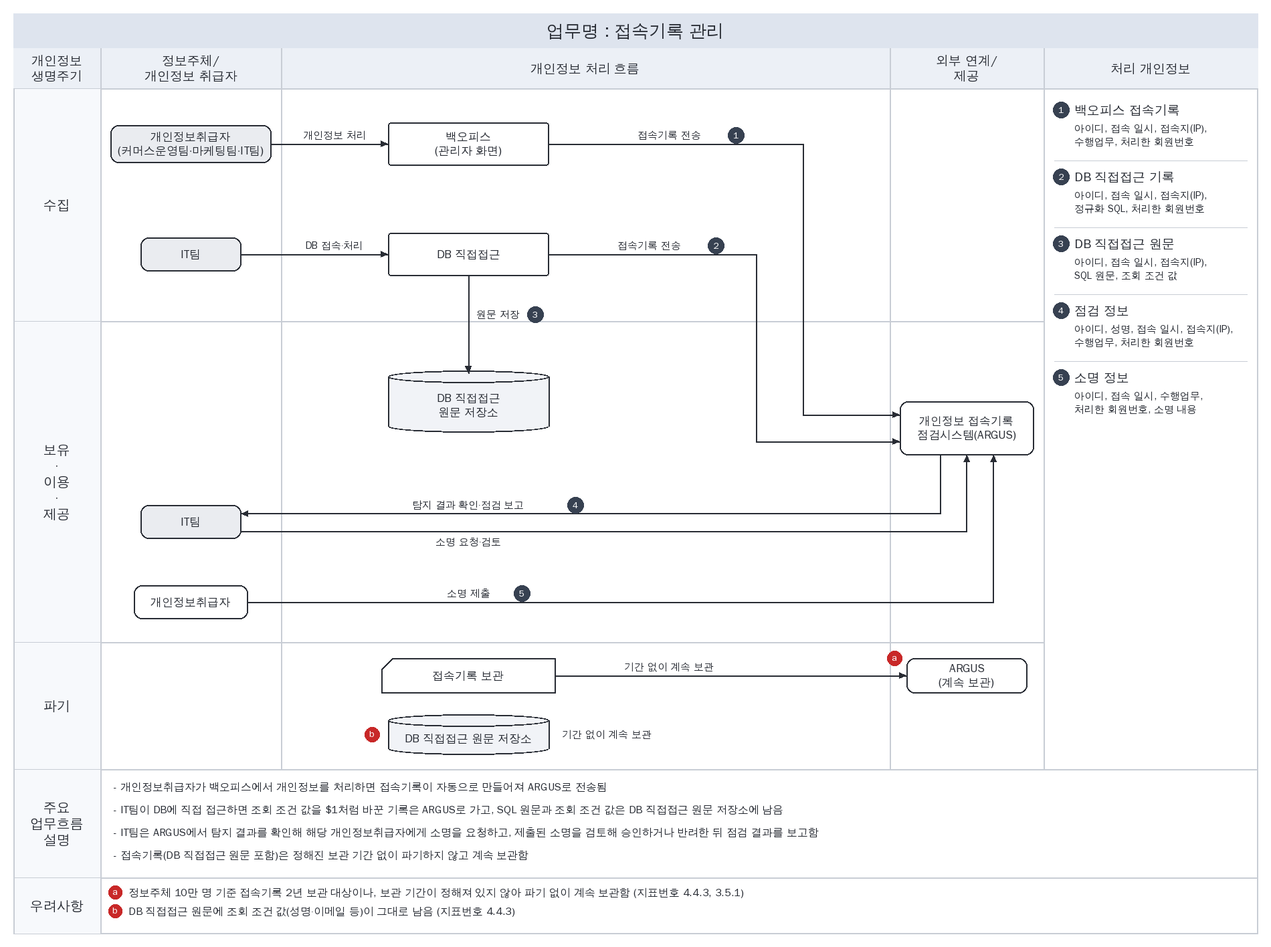
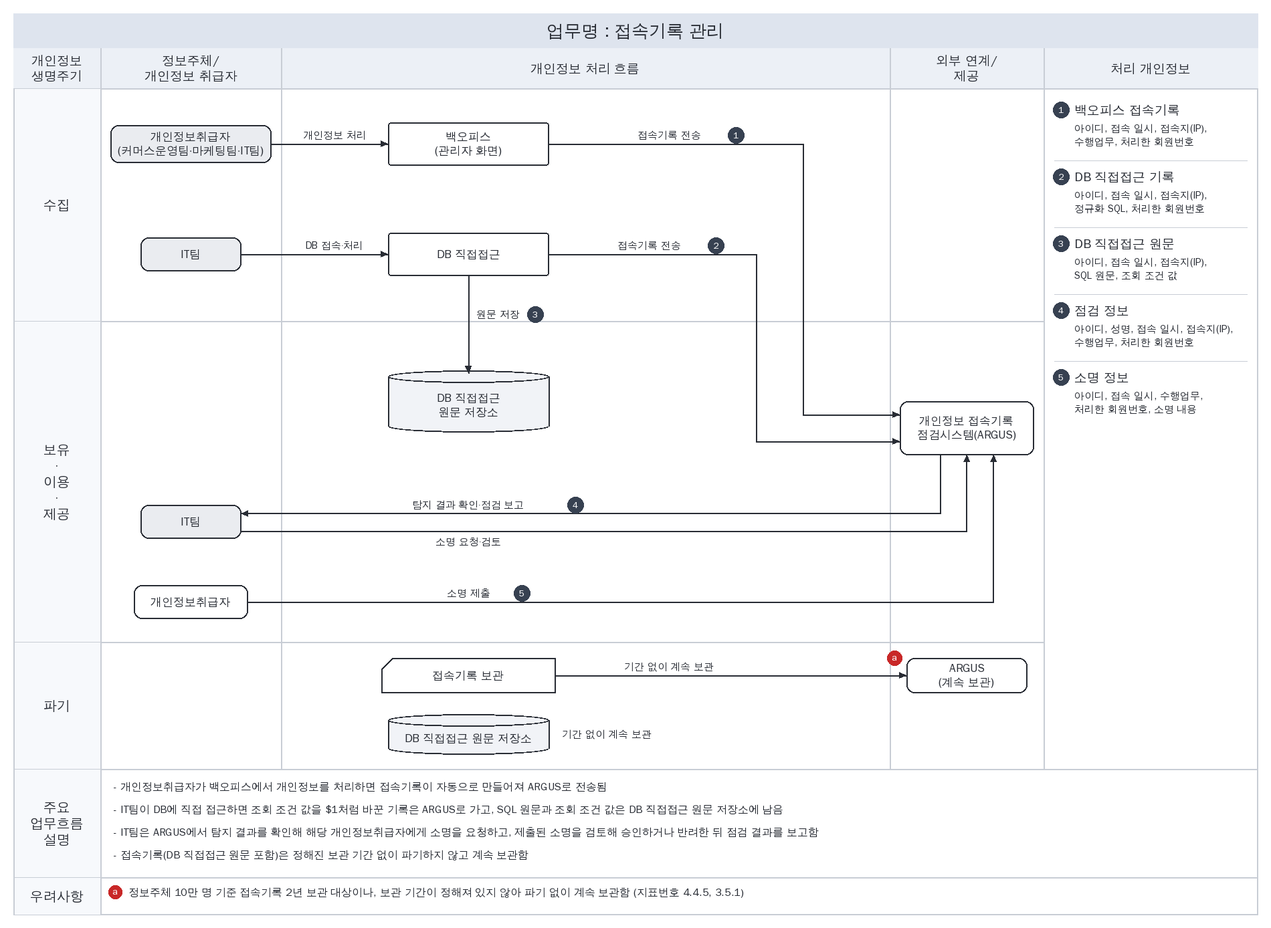
docs(pia): 4영역 개인정보 보호조치 현황파악 추가와 흐름도 우려사항 정정
- 4영역(대상시스템의 기술적 보호조치) 7개 분야 현황파악 추가
- 증적 이미지 추가
- 회원관리·접속기록 관리 흐름도에서 지표로 확인되지 않은 우려사항 삭제
- README 진행 현황과 평가항목 표 갱신

Claude-Session: https://claude.ai/code/session_014Tg7LS15gSB8NVMa5p89Kz

diff --git a/docs/pia/침해요인_분석/현황파악_4.1_접근권한_관리.md b/docs/pia/침해요인_분석/현황파악_4.1_접근권한_관리.md
@@ -1,0 +1,125 @@
+# 현황파악 — 4.1 접근권한 관리
+
+> 안내서 현황파악(4.2, 61~64쪽)의 평가항목별 결과 양식으로 작성했습니다. 평가자료(처리방침·설계 문서)와 흐름분석 산출물, 시스템 담당자 인터뷰·실사로 판정했습니다
+> 확인: 이행 / 부분이행 / 미이행. 해당 없음 지표(4.1.2·4.1.12·4.1.13)는 [평가항목](평가항목.md)에 사유가 있습니다
+> 접근 통제(IP 제한 등)는 배포 설계안 기준으로 판정했습니다
+
+## 4.1.1
+
+| 구분 | 내용 |
+|---|---|
+| 질의문 코드 | 4.1.1 |
+| 질의문 | 개인정보취급자별로 책임 추적성이 확보될 수 있도록 개별 계정을 부여하도록 계획하고 있습니까? |
+| 확인 | 이행 |
+| 평가 근거 및 의견 | - 백오피스·ARGUS는 취급자마다 개별 계정을 발급함<br>- DB 직접접근도 본인 계정으로 발급받은 접속 토큰으로만 접속해 접근자를 구분함<br><br>[증적] 백오피스 계정·권한<br>![백오피스 계정·권한](증적/백오피스_계정권한.png) |
+| 항목 설명 | ○ 응용프로그램·DB 등에 접근하는 취급자마다 고유 계정을 발급하고 공유하지 않음 |
+| 평가 예시 | ○ 이행: 모든 개인정보처리시스템에 취급자별 개별 계정을 발급한 경우<br>○ 부분이행: 일부 시스템에서 계정을 공유하는 경우 |
+| 관련 법령 및 문서 | 개인정보 보호법 제29조, 개인정보의 안전성 확보조치 기준 제5조제4항 |
+
+## 4.1.3
+
+| 구분 | 내용 |
+|---|---|
+| 질의문 코드 | 4.1.3 |
+| 질의문 | 개인정보취급자 및 정보주체의 인증수단을 안전하게 적용하고 관리하도록 계획하고 있습니까? |
+| 확인 | 부분이행 |
+| 평가 근거 및 의견 | - 취급자·정보주체 모두 비밀번호 10자 이상·2종류 이상 조합을 적용하고, 취급자 임시 비밀번호는 첫 로그인 때 변경하게 함<br>- DB 직접접근(관리자 권한 접근)에 접속 토큰 외 다중요소 인증이 없음<br><br>[증적] 관리자 비밀번호 변경 화면<br>![관리자 비밀번호 변경 화면](증적/관리자_비밀번호변경.png) |
+| 항목 설명 | ○ 취급자와 정보주체를 인증하는 수단을 추측·탈취가 어렵도록 적용하고 관리함 |
+| 평가 예시 | ○ 이행: 취급자·정보주체 모두에 안전한 인증수단과 관리 기준을 적용한 경우<br>○ 부분이행: 일부 대상에 인증수단 기준이 없거나 미흡한 경우 |
+| 관련 법령 및 문서 | 개인정보 보호법 제29조, 개인정보의 안전성 확보조치 기준 제5조제5항 |
+
+## 4.1.4
+
+| 구분 | 내용 |
+|---|---|
+| 질의문 코드 | 4.1.4 |
+| 질의문 | 정보주체가 비밀번호 변경 등 중요 정보 접근 시 비밀번호 재확인 등 추가적인 인증이 적용되도록 계획하고 있습니까? |
+| 확인 | 이행 |
+| 평가 근거 및 의견 | - 마이페이지에서 비밀번호를 바꿀 때 현재 비밀번호를 다시 확인함<br><br>[증적] 마이페이지 비밀번호 변경 화면<br>![마이페이지 비밀번호 변경 화면](증적/마이페이지_비밀번호변경.png) |
+| 항목 설명 | ○ 정보주체가 비밀번호 변경 등 중요 정보에 접근할 때 비밀번호 재확인 등으로 본인임을 다시 확인함 |
+| 평가 예시 | ○ 이행: 중요 정보 접근 시 추가 인증을 적용한 경우<br>○ 부분이행: 일부 중요 정보 접근에만 추가 인증을 적용한 경우 |
+| 관련 법령 및 문서 | 개인정보 보호법 제29조 |
+
+## 4.1.5
+
+| 구분 | 내용 |
+|---|---|
+| 질의문 코드 | 4.1.5 |
+| 질의문 | 대량의 개인정보 또는 민감한 개인정보를 처리하는 개인정보취급자 및 관리자는 강화된 인증방식이 적용되도록 계획하고 있습니까? |
+| 확인 | 부분이행 |
+| 평가 근거 및 의견 | - 백오피스와 DB 직접접근은 허용한 IP에서만 접속하도록 함<br>- 대량 처리 취급자에게 OTP 등 소유·생체 기반 인증을 적용하지 않음 |
+| 항목 설명 | ○ 대량·민감 개인정보를 처리하는 취급자와 관리자는 비밀번호 외에 소유·생체·위치 기반 등 강화된 인증을 적용함 |
+| 평가 예시 | ○ 이행: 대량·민감 개인정보 처리자에게 강화된 인증을 적용한 경우<br>○ 부분이행: 일부 처리자나 접근 경로에만 강화된 인증을 적용한 경우 |
+| 관련 법령 및 문서 | 개인정보 보호법 제29조 |
+
+## 4.1.6
+
+| 구분 | 내용 |
+|---|---|
+| 질의문 코드 | 4.1.6 |
+| 질의문 | 정당한 권한을 가진 자만이 개인정보처리시스템에 접근할 수 있도록 일정 횟수 이상 인증에 실패한 경우 개인정보처리시스템에 대한 접근을 제한하는 등 필요한 조치를 취하도록 계획하고 있습니까? |
+| 확인 | 이행 |
+| 평가 근거 및 의견 | - 백오피스·ARGUS는 5회 연속 실패 시 계정을 잠그고 관리자만 해제함<br>- 쇼핑몰 회원은 5회 연속 실패 시 15분간 잠금<br><br>[증적] 쇼핑몰 로그인 실패 잠금 화면<br>![쇼핑몰 로그인 실패 잠금 화면](증적/회원_로그인실패_잠금.png) |
+| 항목 설명 | ○ 일정 횟수 이상 인증에 실패하면 계정 잠금 등으로 접근을 제한함 |
+| 평가 예시 | ○ 이행: 모든 접근 대상에 인증 실패 시 접근 제한을 적용한 경우<br>○ 부분이행: 일부 시스템이나 대상에 접근 제한이 없는 경우 |
+| 관련 법령 및 문서 | 개인정보 보호법 제29조, 개인정보의 안전성 확보조치 기준 제5조제6항 |
+
+## 4.1.7
+
+| 구분 | 내용 |
+|---|---|
+| 질의문 코드 | 4.1.7 |
+| 질의문 | 개인정보처리시스템에 대한 불법적인 접근 및 침해사고 방지를 위하여 개인정보취급자가 일정시간 이상 업무 처리를 하지 않는 경우에는 자동으로 시스템 접속이 차단되도록 계획하고 있습니까? |
+| 확인 | 이행 |
+| 평가 근거 및 의견 | - 백오피스·ARGUS는 30분 동안 사용하지 않으면 인증이 만료되어 다시 로그인해야 함<br>- DB 직접접근도 연결을 사용하지 않으면 끊기고 다시 인증해야 함 |
+| 항목 설명 | ○ 취급자가 일정 시간 업무를 하지 않으면 접속을 자동 차단하고, 다시 접속할 때 처음과 같은 방법으로 인증함 |
+| 평가 예시 | ○ 이행: 모든 접근 경로에 미사용 시 자동 차단을 적용한 경우<br>○ 부분이행: 일부 접근 경로에 자동 차단이 없는 경우 |
+| 관련 법령 및 문서 | 개인정보 보호법 제29조, 개인정보의 안전성 확보조치 기준 제6조제4항 |
+
+## 4.1.8
+
+| 구분 | 내용 |
+|---|---|
+| 질의문 코드 | 4.1.8 |
+| 질의문 | 개인정보처리시스템에 대한 비정상적인 접근을 방지하기 위하여 장기 미접속시 계정 잠금, 동시 접속 제한, 관리자 로그인 알림 등 보호 대책이 적용되도록 계획하고 있습니까? |
+| 확인 | 부분이행 |
+| 평가 근거 및 의견 | - 개인정보 접속기록 점검 시스템으로 비정상적인 접근을 탐지함<br>- 업무 시간 외 접속 제한, 장기 미접속 계정 잠금, 동시 접속 제한, 관리자 로그인 알림이 없음<br><br>[증적] 개인정보 접속기록 점검 시스템 탐지 룰<br>![개인정보 접속기록 점검 시스템 탐지 룰](증적/ARGUS_탐지룰.png) |
+| 항목 설명 | ○ 업무 시간 외 접속 제한, 장기 미접속 잠금, 동시 접속 제한, 관리자 로그인 알림 등으로 비정상 접근을 막거나 탐지함 |
+| 평가 예시 | ○ 이행: 비정상 접근을 막거나 탐지하는 보호대책을 적용한 경우<br>○ 부분이행: 보호대책을 일부만 적용한 경우 |
+| 관련 법령 및 문서 | 개인정보 보호법 제29조 |
+
+## 4.1.9
+
+| 구분 | 내용 |
+|---|---|
+| 질의문 코드 | 4.1.9 |
+| 질의문 | 개인정보취급자 또는 개인정보취급자의 업무가 변경될 경우 지체없이 개인정보처리시스템의 접근권한을 변경 또는 말소하도록 계획하고 있습니까? |
+| 확인 | 부분이행 |
+| 평가 근거 및 의견 | - 퇴직 처리하면 로그인·DB 접속 토큰 발급이 바로 막히고 ARGUS 명부에도 반영됨<br>- 시스템에 권한 변경·말소 기능은 있으나, 전보·퇴직 등 인사 변동을 권한 변경·말소로 이어지게 하는 절차가 없음 |
+| 항목 설명 | ○ 전보·퇴직 등으로 취급자나 업무가 바뀌면 누락 없이 지체 없이 권한을 변경·말소하는 절차를 둠 |
+| 평가 예시 | ○ 이행: 인사 변동 시 권한을 지체 없이 변경·말소하는 기능과 절차가 있는 경우<br>○ 부분이행: 변경·말소 기능은 있으나 누락을 막는 절차가 없는 경우 |
+| 관련 법령 및 문서 | 개인정보 보호법 제29조, 개인정보의 안전성 확보조치 기준 제5조제2항 |
+
+## 4.1.10
+
+| 구분 | 내용 |
+|---|---|
+| 질의문 코드 | 4.1.10 |
+| 질의문 | 개인정보처리시스템의 접근권한을 부여, 변경 또는 말소한 내역을 기록하고 그 기록을 최소 3년간 보관하도록 계획하고 있습니까? |
+| 확인 | 부분이행 |
+| 평가 근거 및 의견 | - 권한 부여·변경·말소마다 대상·일시·역할·사유·처리자를 기록하고 3년 이상 보관함<br>- 권한 요청·승인 절차가 없어 승인자 정보가 기록되지 않음<br><br>[증적] 백오피스 권한 이력<br>![백오피스 권한 이력](증적/백오피스_권한이력_처리자.png) |
+| 항목 설명 | ○ 권한 부여·변경·말소 내역을 대상자·부여자(승인자)·일시·권한·사유가 드러나게 기록하고 3년 이상 보관함 |
+| 평가 예시 | ○ 이행: 필요한 항목을 모두 기록하고 3년 이상 보관한 경우<br>○ 부분이행: 기록 항목 일부가 빠졌거나 보관 기간이 부족한 경우 |
+| 관련 법령 및 문서 | 개인정보 보호법 제29조, 개인정보의 안전성 확보조치 기준 제5조제3항 |
+
+## 4.1.11
+
+| 구분 | 내용 |
+|---|---|
+| 질의문 코드 | 4.1.11 |
+| 질의문 | 개인정보처리시스템에 대한 접근 권한을 조회, 입력, 변경, 삭제, 출력, 다운로드 등 그 역할에 따라 최소한으로 부여할 수 있도록 계획하고 있습니까? |
+| 확인 | 부분이행 |
+| 평가 근거 및 의견 | - 역할별로 조회·다운로드·전체 보기·권한 관리 범위를 나누고 서버에서 검사함<br>- 마케팅팀 계정의 회원 상세에 업무와 관계없는 환불계좌가 보임<br>- DB 직접접근을 IT팀 외 커머스운영팀(운영 역할)도 할 수 있고, 하나의 DB 계정으로 모든 테이블에 접근함<br><br>[증적] 커머스운영팀 계정 DB 접근 관리 화면<br>![커머스운영팀 계정 DB 접근 관리 화면](증적/운영팀_DB접속토큰발급.png) |
+| 항목 설명 | ○ 역할에 따라 조회·변경·다운로드 등 권한을 최소한으로 나눠 부여하고, DB 직접접근은 최소 인원으로 한정함 |
+| 평가 예시 | ○ 이행: 역할별 권한을 업무에 필요한 최소 범위로 부여한 경우<br>○ 부분이행: 일부 역할에 업무에 필요 없는 권한이 부여된 경우 |
+| 관련 법령 및 문서 | 개인정보 보호법 제29조, 개인정보의 안전성 확보조치 기준 제5조제1항 |

diff --git a/docs/pia/침해요인_분석/현황파악_4.3_개인정보의_암호화.md b/docs/pia/침해요인_분석/현황파악_4.3_개인정보의_암호화.md
@@ -1,0 +1,53 @@
+# 현황파악 — 4.3 개인정보의 암호화
+
+> 안내서 현황파악(4.2, 61~64쪽)의 평가항목별 결과 양식으로 작성했습니다. 평가자료(처리방침·설계 문서)와 흐름분석 산출물, 시스템 담당자 인터뷰·실사로 판정했습니다
+> 확인: 이행 / 부분이행 / 미이행. 해당 없음 지표(4.3.3)는 [평가항목](평가항목.md)에 사유가 있습니다
+> 전송 구간 암호화는 배포 설계안 기준으로 판정했습니다
+
+## 4.3.1
+
+| 구분 | 내용 |
+|---|---|
+| 질의문 코드 | 4.3.1 |
+| 질의문 | 인증정보, 고유식별정보 등 중요 개인정보를 저장하는 경우, 안전한 방식으로 암호화 저장하도록 계획하고 있습니까? |
+| 확인 | 이행 |
+| 평가 근거 및 의견 | - 비밀번호는 솔트를 적용한 일방향 암호(argon2id, 비밀번호 저장용 알고리즘)로, 환불계좌번호와 이체 환불 계좌 사본은 AES-256-GCM으로 암호화해 저장함<br>- 카드번호는 PG 결제창에서만 입력받아 저장하지 않고, 고유식별정보는 수집하지 않음<br><br>[증적] 회원 비밀번호 저장값<br>![회원 비밀번호 저장값](증적/DB_비밀번호_해시.png) |
+| 항목 설명 | ○ 인증정보는 안전한 알고리즘으로 암호화(비밀번호는 솔트를 적용한 일방향 암호화)하고, 이용자의 고유식별정보·카드번호·계좌번호·생체인식정보는 저장 위치와 관계없이 암호화해 저장함 |
+| 평가 예시 | ○ 이행: 암호화 대상 개인정보를 모두 안전한 알고리즘으로 암호화해 저장하는 경우<br>○ 부분이행: 일부 암호화 대상을 평문으로 저장하거나 안전하지 않은 알고리즘을 사용하는 경우 |
+| 관련 법령 및 문서 | 개인정보 보호법 제29조, 개인정보의 안전성 확보조치 기준 제7조제1항·제2항 |
+
+## 4.3.2
+
+| 구분 | 내용 |
+|---|---|
+| 질의문 코드 | 4.3.2 |
+| 질의문 | 이용자의 개인정보 또는 이용자가 아닌 정보주체의 고유식별정보를 개인정보취급자 컴퓨터, 모바일 기기 및 보조저장매체 등에 저장할 때에는 안전한 알고리즘으로 암호화 저장하도록 계획하고 있습니까? |
+| 확인 | 미이행 |
+| 평가 근거 및 의견 | - 백오피스에서 내려받은 회원 CSV와 마케팅 분석용 추출 파일을 암호화하지 않고 취급자 PC에 저장함<br><br>[증적] 회원 CSV 파일<br>![회원 CSV 파일](증적/회원CSV.png) |
+| 항목 설명 | ○ 이용자의 개인정보를 취급자 PC·모바일 기기·보조저장매체에 저장할 때 문서 암호, DRM, 디스크 암호화 등으로 안전하게 암호화함 |
+| 평가 예시 | ○ 이행: 취급자 PC 등에 저장하는 개인정보 파일을 모두 암호화하는 경우<br>○ 부분이행: 일부 파일이나 일부 기기에만 암호화를 적용한 경우 |
+| 관련 법령 및 문서 | 개인정보 보호법 제29조, 개인정보의 안전성 확보조치 기준 제7조제5항 |
+
+## 4.3.4
+
+| 구분 | 내용 |
+|---|---|
+| 질의문 코드 | 4.3.4 |
+| 질의문 | 비밀번호, 생체인식정보 등 인증정보를 정보통신망을 통해 송·수신하는 경우에는 암호화하도록 계획하고 있습니까? |
+| 확인 | 이행 |
+| 평가 근거 및 의견 | - 쇼핑몰·백오피스·접속기록 점검 시스템은 HTTPS로, DB 직접접근은 암호화(TLS) 연결만 허용해 비밀번호·접속 토큰을 암호화해 전송함<br><br>[증적] DB 직접접근 SSL 설정<br>![DB 직접접근 SSL 설정](증적/DB직접접근_SSL설정.png) |
+| 항목 설명 | ○ 비밀번호 등 인증정보는 내부망을 포함한 모든 정보통신망 구간에서 SSL/TLS 등으로 암호화해 송·수신함 |
+| 평가 예시 | ○ 이행: 인증정보를 송·수신하는 모든 구간을 암호화한 경우<br>○ 부분이행: 일부 구간에서 인증정보를 암호화하지 않고 송·수신하는 경우 |
+| 관련 법령 및 문서 | 개인정보 보호법 제29조, 개인정보의 안전성 확보조치 기준 제7조제1항 |
+
+## 4.3.5
+
+| 구분 | 내용 |
+|---|---|
+| 질의문 코드 | 4.3.5 |
+| 질의문 | 개인정보를 정보통신망을 통하여 인터넷망 구간으로 송·수신하는 경우 암호화하도록 계획하고 있습니까? |
+| 확인 | 부분이행 |
+| 평가 근거 및 의견 | - 쇼핑몰·백오피스의 웹 구간은 HTTPS로 암호화함<br>- PG사·택배사와 구매자·받는 사람 정보를 주고받는 연계 구간의 암호화가 설계에 반영되지 않음 |
+| 항목 설명 | ○ 인터넷망 구간으로 개인정보를 송·수신할 때 보안서버(SSL 인증서) 등으로 암호화함 |
+| 평가 예시 | ○ 이행: 인터넷망 구간의 개인정보 송·수신을 모두 암호화한 경우<br>○ 부분이행: 일부 인터넷망 구간을 암호화하지 않은 경우 |
+| 관련 법령 및 문서 | 개인정보 보호법 제29조, 개인정보의 안전성 확보조치 기준 제7조제4항 |

diff --git a/docs/pia/침해요인_분석/현황파악_4.2_접근통제.md b/docs/pia/침해요인_분석/현황파악_4.2_접근통제.md
@@ -1,0 +1,53 @@
+# 현황파악 — 4.2 접근통제
+
+> 안내서 현황파악(4.2, 61~64쪽)의 평가항목별 결과 양식으로 작성했습니다. 평가자료(처리방침·설계 문서)와 흐름분석 산출물, 시스템 담당자 인터뷰·실사로 판정했습니다
+> 확인: 이행 / 부분이행 / 미이행. 해당 없음 지표(4.2.4·4.2.5·4.2.7)는 [평가항목](평가항목.md)에 사유가 있습니다
+> 접근 통제(IP 제한 등)는 배포 설계안 기준으로 판정했습니다. 웹 취약점 점검은 4.2.6에서 판정했습니다
+
+## 4.2.1
+
+| 구분 | 내용 |
+|---|---|
+| 질의문 코드 | 4.2.1 |
+| 질의문 | 개인정보처리시스템에 대한 불법적인 접근 제한 및 개인정보 유출 시도 탐지·대응을 위한 안전조치를 하도록 계획하고 있습니까? |
+| 확인 | 부분이행 |
+| 평가 근거 및 의견 | - 방화벽과 허용 IP 목록으로 관리자 경로·DB 직접접근을 제한하고, 개인정보 접속기록 점검 시스템으로 취급자의 이상 접근을 탐지함<br>- 인터넷에 공개된 쇼핑몰로 들어오는 접속을 분석해 유출 시도를 탐지하는 기능이 없음<br><br>[증적] 개인정보 접속기록 점검 시스템 탐지 룰<br>![개인정보 접속기록 점검 시스템 탐지 룰](증적/ARGUS_탐지룰.png) |
+| 항목 설명 | ○ IP 주소 등으로 인가받지 않은 접근을 제한하는 침입차단 기능과, 접속 IP 등을 분석해 유출 시도를 탐지·대응하는 침입탐지 기능을 모두 갖춤 |
+| 평가 예시 | ○ 이행: 침입차단과 침입탐지 기능을 모두 갖춘 경우<br>○ 부분이행: 두 기능 중 하나만 갖춘 경우 |
+| 관련 법령 및 문서 | 개인정보 보호법 제29조, 개인정보의 안전성 확보조치 기준 제6조제1항 |
+
+## 4.2.2
+
+| 구분 | 내용 |
+|---|---|
+| 질의문 코드 | 4.2.2 |
+| 질의문 | 개인정보처리시스템에 대한 정당한 접근 권한을 가진 자(다만, 정보주체는 제외)가 정보통신망을 통해 외부에서 개인정보처리시스템에 접속하려는 경우에는 인증서, 보안토큰, 일회용 비밀번호 등 안전한 인증수단을 적용하도록 계획하고 있습니까? |
+| 확인 | 미이행 |
+| 평가 근거 및 의견 | - 업무상 외부 접속이 필요하나, OTP·인증서 등 안전한 인증수단이나 VPN을 적용한 외부 접속 방법이 없음 |
+| 항목 설명 | ○ 외부에서의 접속은 원칙적으로 차단하고, 필요한 경우 OTP·인증서 등 안전한 인증수단이나 VPN 등 안전한 접속수단을 적용함 |
+| 평가 예시 | ○ 이행: 외부 접속을 차단하거나, 외부 접속 시 안전한 인증수단을 적용한 경우<br>○ 부분이행: 일부 외부 접속 경로에 안전한 인증수단이 없는 경우 |
+| 관련 법령 및 문서 | 개인정보 보호법 제29조, 개인정보의 안전성 확보조치 기준 제6조제2항 |
+
+## 4.2.3
+
+| 구분 | 내용 |
+|---|---|
+| 질의문 코드 | 4.2.3 |
+| 질의문 | 인터넷 홈페이지, P2P, 공유설정, 공개된 무선망 등을 통해 개인정보가 노출되거나 유출되지 않도록 개인정보처리시스템, 개인정보취급자 컴퓨터, 모바일 기기 등에 조치를 계획하고 있습니까? |
+| 확인 | 이행 |
+| 평가 근거 및 의견 | - 관리자 페이지는 허용 IP에서만 열리고, DB는 인터넷에 직접 노출하지 않음<br>- 쇼핑몰에 개인정보가 공개되는 게시판이 없음 |
+| 항목 설명 | ○ 관리자 페이지 노출 차단, 개인정보처리시스템의 인터넷 접속 차단 등으로 개인정보가 권한 없는 자에게 노출되지 않도록 함 |
+| 평가 예시 | ○ 이행: 인터넷 홈페이지 등을 통한 노출·유출 방지 조치를 한 경우<br>○ 부분이행: 일부 경로에 노출·유출 방지 조치가 없는 경우 |
+| 관련 법령 및 문서 | 개인정보 보호법 제29조, 개인정보의 안전성 확보조치 기준 제6조제3항 |
+
+## 4.2.6
+
+| 구분 | 내용 |
+|---|---|
+| 질의문 코드 | 4.2.6 |
+| 질의문 | 인터넷 홈페이지 취약점으로 인한 개인정보의 유출, 변조, 훼손 등을 방지하기 위하여 웹서버 및 응용프로그램에 대한 취약점 점검 및 대응조치를 수행하도록 계획하고 있습니까? |
+| 확인 | 미이행 |
+| 평가 근거 및 의견 | - 웹 취약점 진단 계획과 점검 결과를 조치·관리하는 절차가 없음 |
+| 항목 설명 | ○ 개발 시 시큐어 코딩·취약점 점검을 적용하고, 운영 중 정기 취약점 진단과 조치 이행을 관리함 |
+| 평가 예시 | ○ 이행: 개발 보안과 정기 취약점 진단·조치를 모두 수행하는 경우<br>○ 부분이행: 개발 보안이나 정기 진단 중 일부만 수행하는 경우 |
+| 관련 법령 및 문서 | 개인정보 보호법 제29조, 개인정보의 안전성 확보조치 기준 제4조 |

diff --git a/docs/pia/침해요인_분석/현황파악_4.4_접속기록의_보관_및_점검.md b/docs/pia/침해요인_분석/현황파악_4.4_접속기록의_보관_및_점검.md
@@ -1,0 +1,40 @@
+# 현황파악 — 4.4 접속기록의 보관 및 점검
+
+> 안내서 현황파악(4.2, 61~64쪽)의 평가항목별 결과 양식으로 작성했습니다. 평가자료(처리방침·설계 문서)와 흐름분석 산출물, 시스템 담당자 인터뷰·실사로 판정했습니다
+> 확인: 이행 / 부분이행 / 미이행. 해당 없음 지표(4.4.3·4.4.4)는 [평가항목](평가항목.md)에 사유가 있습니다
+
+## 4.4.1
+
+| 구분 | 내용 |
+|---|---|
+| 질의문 코드 | 4.4.1 |
+| 질의문 | 개인정보처리시스템의 접속기록을 식별자, 접속일시, 접속지 정보, 처리한 정보주체 정보, 수행업무 등 필요한 사항이 모두 기록되도록 계획하고 있습니까? |
+| 확인 | 부분이행 |
+| 평가 근거 및 의견 | - 백오피스 화면 경유와 DB 직접접근 모두 식별자·접속일시·접속지·처리한 정보주체·수행업무를 기록함<br>- SSH·텔넷 등으로 서버에 직접 접속한 뒤 DB에 접속하는 경로는 접속기록이 남지 않음<br><br>[증적] 개인정보 접속기록 점검 시스템 접속기록 조회<br>![개인정보 접속기록 점검 시스템 접속기록 조회](증적/ARGUS_접속기록_조회.png) |
+| 항목 설명 | ○ 응용프로그램·DB 직접접속·서버 경유 등 접속 경로별로 5개 항목(식별자·접속일시·접속지·처리한 정보주체·수행업무)을 빠짐없이 기록하고, 접속기록에 불필요한 개인정보가 남지 않게 함 |
+| 평가 예시 | ○ 이행: 모든 접속 경로에서 5개 항목을 빠짐없이 기록하는 경우<br>○ 부분이행: 일부 접속 경로나 일부 항목이 기록되지 않는 경우 |
+| 관련 법령 및 문서 | 개인정보 보호법 제29조, 개인정보의 안전성 확보조치 기준 제2조제3호·제8조제1항 |
+
+## 4.4.2
+
+| 구분 | 내용 |
+|---|---|
+| 질의문 코드 | 4.4.2 |
+| 질의문 | 개인정보의 오·남용, 분실·도난·유출·위조·변조 또는 훼손 등에 대응하기 위하여 개인정보취급자의 개인정보처리시스템에 대한 접속기록 및 개인정보 다운로드 상황을 확인하고 점검하는 주기·방법·사후조치 절차 등을 내부 관리계획으로 정하고 이행하도록 계획하고 있습니까? |
+| 확인 | 부분이행 |
+| 평가 근거 및 의견 | - 개인정보 접속기록 점검 시스템이 대량 다운로드·업무 시간 외 접속 등을 자동 탐지하고, 소명 요청과 점검 보고서로 사후 확인함<br>- 점검 주기·방법·담당자·사후조치 절차를 내부 관리계획으로 정하지 않음<br><br>[증적] 개인정보 접속기록 점검 보고서<br>![개인정보 접속기록 점검 보고서](증적/ARGUS_점검보고서.png) |
+| 항목 설명 | ○ 점검 방법·기준·주기·담당자·비정상 행위 대응·보고 절차를 내부 관리계획으로 정하고, 대량 다운로드 등 위험 행위를 기술적으로 점검함 |
+| 평가 예시 | ○ 이행: 점검 계획을 내부 관리계획으로 정하고 점검 기능을 갖춰 이행하는 경우<br>○ 부분이행: 점검 기능은 있으나 점검 계획이 없거나, 계획은 있으나 점검 기능이 부족한 경우 |
+| 관련 법령 및 문서 | 개인정보 보호법 제29조, 개인정보의 안전성 확보조치 기준 제8조제2항 |
+
+## 4.4.5
+
+| 구분 | 내용 |
+|---|---|
+| 질의문 코드 | 4.4.5 |
+| 질의문 | 개인정보처리시스템의 접속기록을 최소 1년 또는 2년 이상 보관하고 위·변조 및 도난, 분실되지 않도록 해당 접속기록을 안전하게 보관하기 위한 조치를 계획하고 있습니까? |
+| 확인 | 부분이행 |
+| 평가 근거 및 의견 | - 접속기록은 수정·삭제를 막고 해시체인으로 위·변조 여부를 확인하며, 매일 암호화해 백업함<br>- 정보주체 5만 명 이상으로 2년 이상 보관 대상이나 보관 기간을 정하지 않았고, 백업을 같은 서버에만 보관함<br><br>[증적] 개인정보 접속기록 점검 보고서(무결성 점검)<br>![개인정보 접속기록 점검 보고서(무결성 점검)](증적/ARGUS_점검보고서.png) |
+| 항목 설명 | ○ 접속기록을 1년(5만 명 이상·고유식별정보·민감정보 처리 시 2년) 이상 보관하고, 물리적으로 분리된 저장장치 백업·덮어쓰기 방지·위변조 확인 등으로 안전하게 보관함 |
+| 평가 예시 | ○ 이행: 법정 기간 이상 보관하고 별도 저장장치 백업과 위변조 방지 조치를 한 경우<br>○ 부분이행: 보관 기간이나 안전한 보관 조치 중 일부가 부족한 경우 |
+| 관련 법령 및 문서 | 개인정보 보호법 제29조, 개인정보의 안전성 확보조치 기준 제8조제1항·제3항 |

diff --git a/docs/pia/침해요인_분석/현황파악_4.8_기타_기술적_보호조치.md b/docs/pia/침해요인_분석/현황파악_4.8_기타_기술적_보호조치.md
@@ -1,0 +1,40 @@
+# 현황파악 — 4.8 기타 기술적 보호조치
+
+> 안내서 현황파악(4.2, 61~64쪽)의 평가항목별 결과 양식으로 작성했습니다. 평가자료(처리방침·설계 문서)와 흐름분석 산출물, 시스템 담당자 인터뷰·실사로 판정했습니다
+> 확인: 이행 / 부분이행 / 미이행. 해당 없음 지표(4.8.3)는 [평가항목](평가항목.md)에 사유가 있습니다
+
+## 4.8.1
+
+| 구분 | 내용 |
+|---|---|
+| 질의문 코드 | 4.8.1 |
+| 질의문 | 개발 환경을 통한 개인정보의 유출을 방지하기 위하여 테스트 데이터 생성·이용·파기 및 기술적 보호조치 등에 관한 대책을 적용하도록 계획하고 있습니까? |
+| 확인 | 이행 |
+| 평가 근거 및 의견 | - 테스트 데이터는 모두 가상 데이터로 만들고, 개발 환경과 운영 서버를 분리하며, 소스 변경 이력을 PR로 관리함 |
+| 항목 설명 | ○ 테스트 데이터는 실제 개인정보가 아닌 가공 정보를 쓰고, 개발·운영 환경을 분리해 통제된 절차로 이관하며, 소스프로그램의 비인가 접근·변경을 막음 |
+| 평가 예시 | ○ 이행: 가공 테스트 데이터, 환경 분리, 소스프로그램 보호를 모두 적용한 경우<br>○ 부분이행: 일부 대책만 적용한 경우 |
+| 관련 법령 및 문서 | 개인정보 보호법 제29조 |
+
+## 4.8.2
+
+| 구분 | 내용 |
+|---|---|
+| 질의문 코드 | 4.8.2 |
+| 질의문 | 개인정보취급자 및 정보주체의 개인정보 처리화면을 통한 개인정보 유·노출 등을 방지하기 위하여 개인정보 마스킹, 웹브라우저 우측 마우스 버튼 제한, 임시 파일 및 캐시 통제, 카드번호 등 중요 정보에 대한 복사·화면캡쳐 방지 및 키보드해킹 방지 등 보호대책을 적용하도록 계획하고 있습니까? |
+| 확인 | 부분이행 |
+| 평가 근거 및 의견 | - 배송 목록의 받는 사람·연락처·주소와 카드번호·환불계좌번호는 마스킹해 표시함<br>- 회원 목록·상세와 주문 상세는 이름·연락처·주소 등을 마스킹 없이 표시하고, 우측 마우스 버튼 제한·캐시 통제 등 노출 방지 조치가 없음<br><br>[증적] 백오피스 회원 목록<br>![백오피스 회원 목록](증적/회원목록.png) |
+| 항목 설명 | ○ 처리화면의 개인정보는 일관된 기준으로 마스킹하고, 우측 마우스 버튼·히스토리·캐시를 통제하며, 카드번호 등 중요 정보에는 복사·화면캡처·키보드해킹 방지를 검토함 |
+| 평가 예시 | ○ 이행: 처리화면 전반에 마스킹 기준과 노출 방지 조치를 적용한 경우<br>○ 부분이행: 일부 화면이나 일부 조치만 적용한 경우 |
+| 관련 법령 및 문서 | 개인정보 보호법 제29조 |
+
+## 4.8.4
+
+| 구분 | 내용 |
+|---|---|
+| 질의문 코드 | 4.8.4 |
+| 질의문 | 개인정보처리시스템에서 개인정보의 출력(인쇄, 화면표시, 파일생성 등)시 용도를 특정하여 용도에 따라 출력항목을 최소화하여 출력하도록 계획하고 있습니까? |
+| 확인 | 부분이행 |
+| 평가 근거 및 의견 | - 역할별로 메뉴 접근 권한을 나눠, 맡은 업무가 아닌 화면의 개인정보는 출력되지 않음<br>- 같은 화면과 회원 CSV는 부서·용도와 관계없이 같은 항목을 출력하고, 업무상 꼭 필요하지 않은 항목도 마스킹 없이 출력함<br><br>[증적] 회원 CSV 파일<br>![회원 CSV 파일](증적/회원CSV.png) |
+| 항목 설명 | ○ 개인정보를 인쇄·화면표시·파일생성으로 출력할 때 용도를 특정하고, 접근 권한과 용도에 따라 출력 항목을 최소화함 |
+| 평가 예시 | ○ 이행: 출력 용도를 정하고 용도별로 출력 항목을 최소화한 경우<br>○ 부분이행: 일부 출력에만 항목 최소화를 적용한 경우 |
+| 관련 법령 및 문서 | 개인정보 보호법 제29조, 개인정보의 안전성 확보조치 기준 제12조제1항 |

diff --git a/docs/pia/README.md b/docs/pia/README.md
@@ -21,7 +21,7 @@
 | 1. 영향평가 수행계획 수립 | 완료 | 영향평가 수행계획서 |
 | 2. 평가자료 수집 | 완료 | 법률·규정 목록, 평가자료 목록, 사업개요서 |
 | 3. 개인정보 흐름분석 | 완료 | 개인정보 영향도 등급표, 개인정보 처리 업무표, 개인정보 처리업무 흐름도, 개인정보 흐름표, 개인정보 흐름도, 정보시스템 구조도, 정보보호 시스템 목록 |
-| 4. 개인정보 침해요인 분석 | 진행 중 | 평가항목, 현황파악(1~3영역) |
+| 4. 개인정보 침해요인 분석 | 진행 중 | 평가항목, 현황파악(1~4영역) |
 | 5. 개선계획 수립 | 예정 | |
 | 6. 영향평가서 작성 | 예정 | |
 
@@ -105,7 +105,7 @@
 
 ### 4.2 개인정보 보호조치 현황파악
 
-해당 지표마다 안내서 양식(확인·평가 근거 및 의견·항목 설명·평가 예시·관련 법령)으로 이행 여부를 판정하고, 실사에서 받은 화면 캡처를 증적으로 붙였습니다. 같은 사실은 그 사실을 직접 묻는 지표 하나에서만 판정했습니다. 1~3영역을 작성했습니다.
+해당 지표마다 안내서 양식(확인·평가 근거 및 의견·항목 설명·평가 예시·관련 법령)으로 이행 여부를 판정하고, 실사에서 받은 화면 캡처를 증적으로 붙였습니다. 같은 사실은 그 사실을 직접 묻는 지표 하나에서만 판정했습니다. 1~4영역을 작성했습니다. 5영역(특정 기술 처리)은 모든 지표가 해당 없음입니다.
 
 | 영역 | 분야 | 산출물 |
 |---|---|---|
@@ -119,6 +119,13 @@
 | | 3.3 이용·제공 | [현황파악](침해요인_분석/현황파악_3.3_이용·제공.md) |
 | | 3.4 위탁 | [현황파악](침해요인_분석/현황파악_3.4_위탁.md) |
 | | 3.5 파기 | [현황파악](침해요인_분석/현황파악_3.5_파기.md) |
+| 4. 대상시스템의 기술적 보호조치 | 4.1 접근권한 관리 | [현황파악](침해요인_분석/현황파악_4.1_접근권한_관리.md) |
+| | 4.2 접근통제 | [현황파악](침해요인_분석/현황파악_4.2_접근통제.md) |
+| | 4.3 개인정보의 암호화 | [현황파악](침해요인_분석/현황파악_4.3_개인정보의_암호화.md) |
+| | 4.4 접속기록의 보관 및 점검 | [현황파악](침해요인_분석/현황파악_4.4_접속기록의_보관_및_점검.md) |
+| | 4.5 악성프로그램 등 방지 | [현황파악](침해요인_분석/현황파악_4.5_악성프로그램_등_방지.md) |
+| | 4.7 개인정보의 파기 | [현황파악](침해요인_분석/현황파악_4.7_개인정보의_파기.md) |
+| | 4.8 기타 기술적 보호조치 | [현황파악](침해요인_분석/현황파악_4.8_기타_기술적_보호조치.md) |
 
 ### 4.3 개인정보 침해요인 도출 → 4.4 개인정보 위험도 산정 (예정)
 

diff --git a/docs/pia/침해요인_분석/현황파악_4.5_악성프로그램_등_방지.md b/docs/pia/침해요인_분석/현황파악_4.5_악성프로그램_등_방지.md
@@ -1,0 +1,28 @@
+# 현황파악 — 4.5 악성프로그램 등 방지
+
+> 안내서 현황파악(4.2, 61~64쪽)의 평가항목별 결과 양식으로 작성했습니다. 평가자료(처리방침·설계 문서)와 흐름분석 산출물, 시스템 담당자 인터뷰·실사로 판정했습니다
+> 확인: 이행 / 부분이행 / 미이행
+
+## 4.5.1
+
+| 구분 | 내용 |
+|---|---|
+| 질의문 코드 | 4.5.1 |
+| 질의문 | 악성프로그램 등을 점검, 치료할 수 있는 보안 프로그램을 설치하고 최신업데이트 및 악성프로그램의 주기적 점검 등 대응조치를 실시하도록 계획하고 있습니까? |
+| 확인 | 부분이행 |
+| 평가 근거 및 의견 | - 취급자 PC에는 실시간 감시와 자동 업데이트가 켜진 백신을 사용함<br>- 서버에는 악성프로그램을 방지·치료하는 보안 프로그램을 설치하는 계획이 없음 |
+| 항목 설명 | ○ 개인정보처리시스템과 취급자 PC에 백신 등 보안 프로그램을 설치해 실시간 감시·자동 업데이트(일 1회 이상)로 최신 상태를 유지하고, 발견된 악성프로그램을 삭제하는 등 대응함 |
+| 평가 예시 | ○ 이행: 대상 서버·PC에 보안 프로그램을 설치하고 최신 상태로 운영하는 경우<br>○ 부분이행: 일부 대상에만 설치하거나 업데이트·점검이 이루어지지 않는 경우 |
+| 관련 법령 및 문서 | 개인정보 보호법 제29조, 개인정보의 안전성 확보조치 기준 제9조제1항 |
+
+## 4.5.2
+
+| 구분 | 내용 |
+|---|---|
+| 질의문 코드 | 4.5.2 |
+| 질의문 | 악성프로그램 관련 경보가 발령된 경우 또는 사용 중인 응용프로그램, 운영체제 소프트웨어 제작업체에서 보안 업데이트 공지가 있는 경우, 이에 따른 업데이트가 지체없이 실시되도록 계획하고 있습니까? |
+| 확인 | 부분이행 |
+| 평가 근거 및 의견 | - 응용프로그램이 사용하는 라이브러리와 컨테이너 이미지는 자동 알림(Dependabot)으로 보안 업데이트를 확인함<br>- 서버 운영체제의 보안 업데이트 적용 절차와 적용 전 영향도 분석 절차가 없음 |
+| 항목 설명 | ○ 운영체제·응용프로그램의 보안 업데이트 공지나 악성프로그램 경보가 있으면 영향도를 분석한 뒤 지체 없이 적용하고, 기술 지원이 끝난 운영체제는 업그레이드함 |
+| 평가 예시 | ○ 이행: 운영체제와 응용프로그램 모두 보안 업데이트를 지체 없이 적용하는 절차가 있는 경우<br>○ 부분이행: 일부 소프트웨어에만 보안 업데이트 절차가 있는 경우 |
+| 관련 법령 및 문서 | 개인정보 보호법 제29조, 개인정보의 안전성 확보조치 기준 제9조제2항 |

diff --git a/docs/pia/침해요인_분석/현황파악_4.7_개인정보의_파기.md b/docs/pia/침해요인_분석/현황파악_4.7_개인정보의_파기.md
@@ -1,0 +1,16 @@
+# 현황파악 — 4.7 개인정보의 파기
+
+> 안내서 현황파악(4.2, 61~64쪽)의 평가항목별 결과 양식으로 작성했습니다. 평가자료(처리방침·설계 문서)와 흐름분석 산출물, 시스템 담당자 인터뷰·실사로 판정했습니다
+> 확인: 이행 / 부분이행 / 미이행. 파기 시점·절차(보유기간 경과 후 파기)는 3.5.1에서 판정하고, 여기서는 파기 방법만 봅니다
+
+## 4.7.1
+
+| 구분 | 내용 |
+|---|---|
+| 질의문 코드 | 4.7.1 |
+| 질의문 | 개인정보를 파기할 경우 복구 또는 재생되지 않는 방법으로 파기하도록 계획하고 있습니까? |
+| 확인 | 이행 |
+| 평가 근거 및 의견 | - 회원 탈퇴 시 회원정보를 DB에서 삭제하고, 분리보관으로 옮긴 문의 내용은 운영 테이블에서 덮어써 지움<br>- 백업 파일은 암호화해 보관하고 7일 뒤 자동 삭제함 |
+| 항목 설명 | ○ 개인정보를 복구·재생되지 않도록 완전파괴·덮어쓰기 등으로 파기하고, 일부만 파기할 때는 삭제 후 복구되지 않도록 관리함 |
+| 평가 예시 | ○ 이행: 저장 매체와 파기 범위에 맞는 방법으로 복구되지 않게 파기하는 경우<br>○ 부분이행: 일부 개인정보를 복구 가능한 상태로 남기는 경우 |
+| 관련 법령 및 문서 | 개인정보 보호법 제21조, 개인정보 보호법 시행령 제16조, 개인정보의 안전성 확보조치 기준 제13조 |
